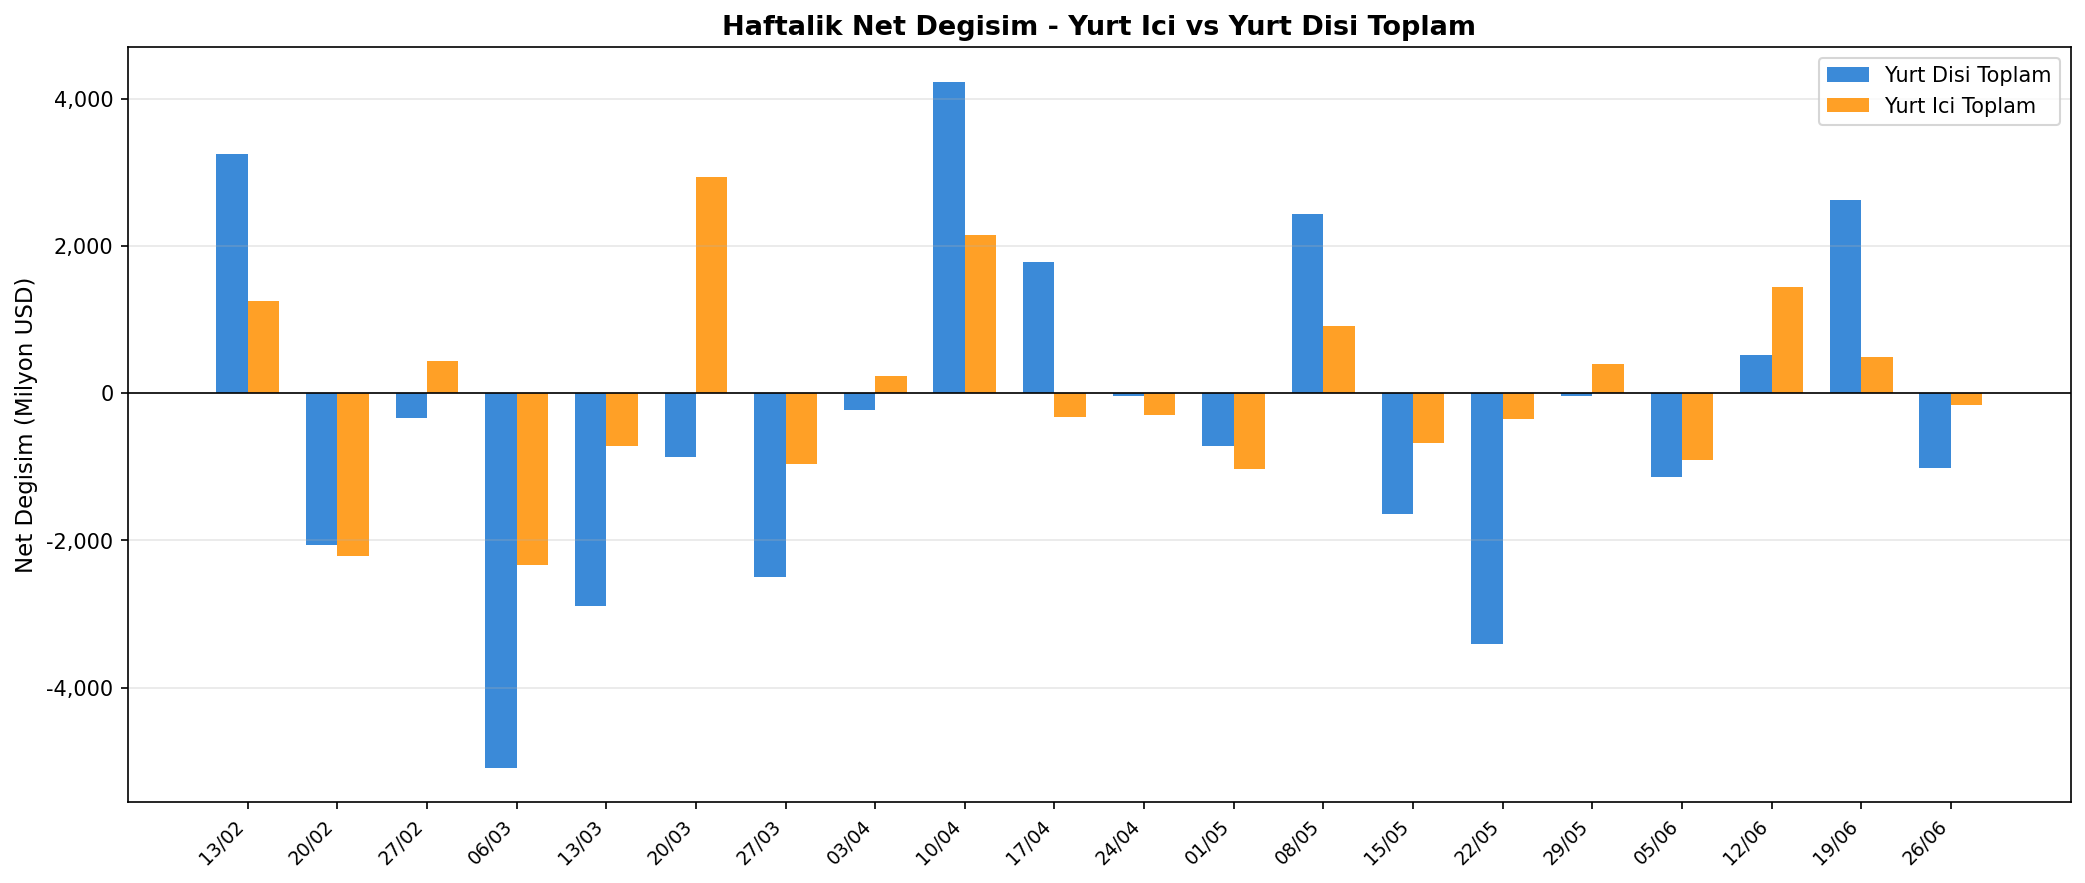
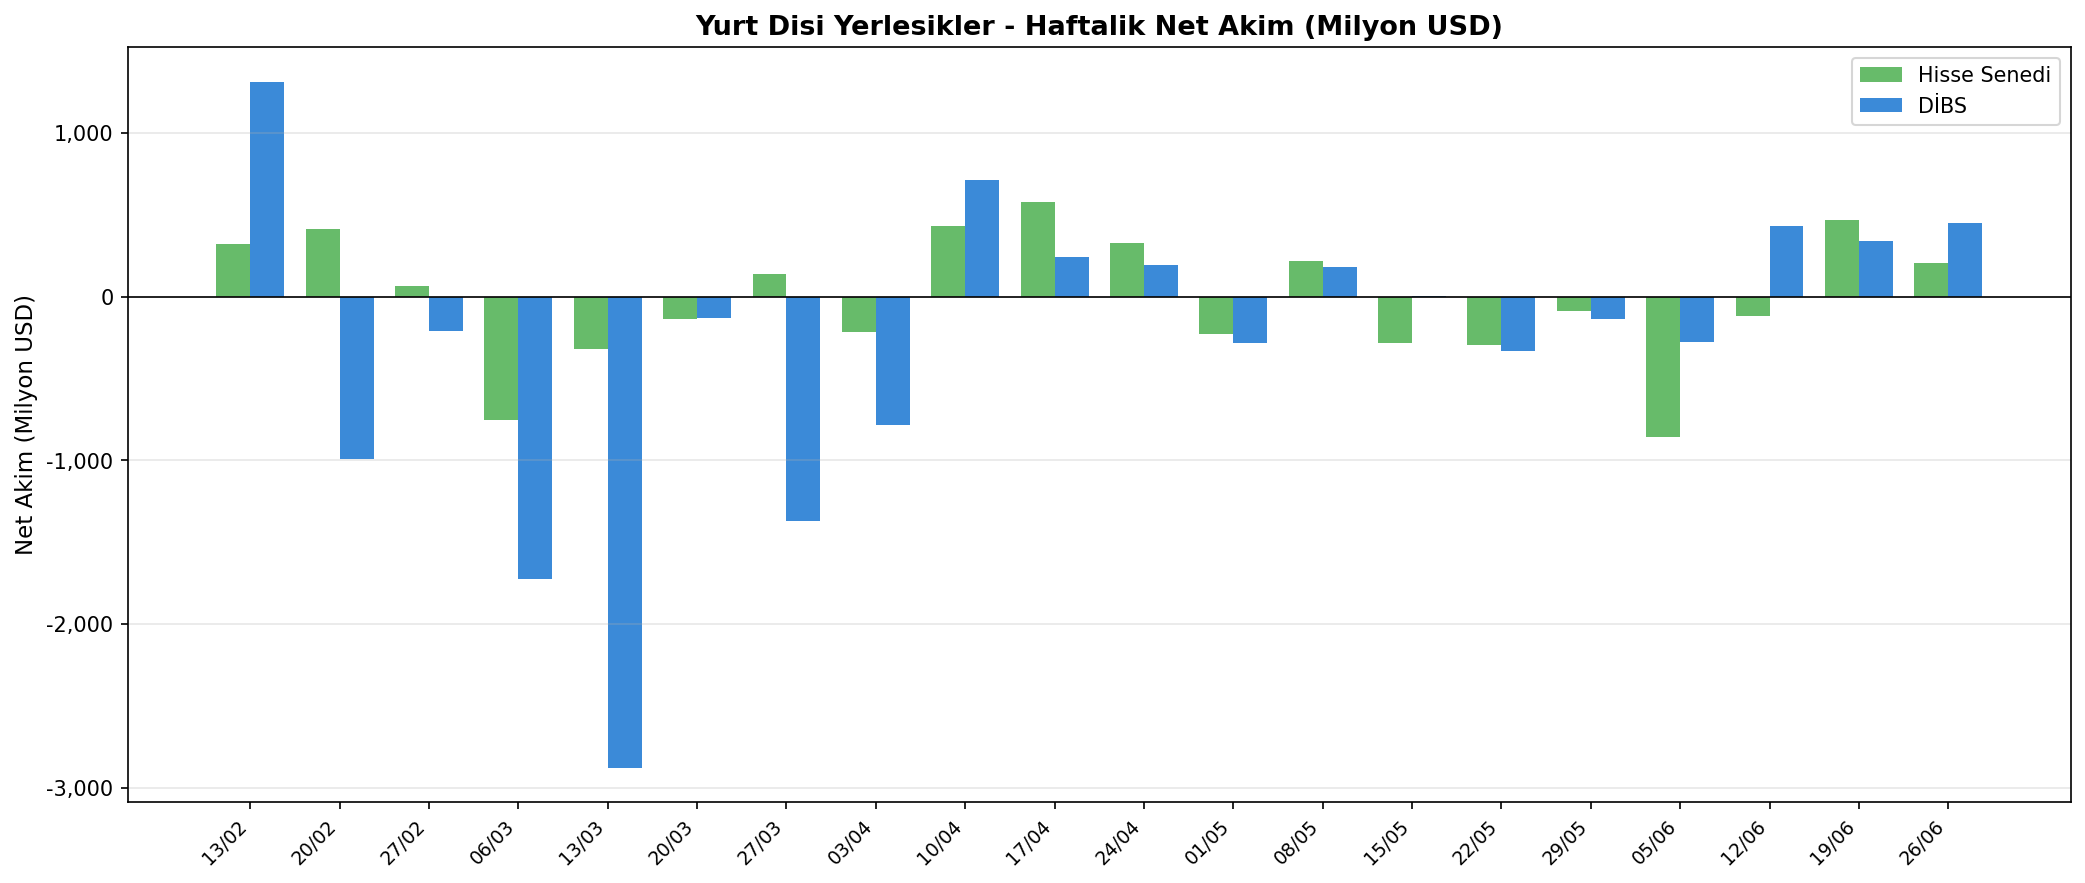
TCMB Stok yeniden yorumlandı: yurt dışı yerleşik stok (M1+M2) + haftalık net akım (M7+M8)
Tüm seriler yurt dışı yerleşiklerin Türkiye Hisse+DİBS yatırımı.
M1/M2=Stok (57.002 mn USD portföy), M7/M8=haftalık net akım (+652 mn USD).

diff --git a/dashboard.py b/dashboard.py
@@ -831,20 +831,26 @@ if selected == "ana_sayfa":
         except Exception:
             pass
         try:
-            import glob as _g
-            csvs = sorted(_g.glob(str(BASE_DIR / "tcmb haftalık stok" / "output" / "raw_Yurt_*.csv")))
-            tot, prev, ld = 0.0, 0.0, None
-            for cc in csvs:
-                d = pd.read_csv(cc)
-                if len(d):
-                    tot += float(d.iloc[-1]["value"]); ld = ld or d.iloc[-1]["date"]
-                    if len(d) >= 2:
-                        prev += float(d.iloc[-2]["value"])
-            if csvs:
-                _chg = (tot - prev) / 1000
-                out.append(("📊 TCMB Haftalık Stok",
-                    f"{ld} itibarıyla yabancı yerleşiklerin menkul kıymet stoku toplam <b>{_ht(tot/1000)} milyar USD</b> "
-                    f"— haftalık değişim <b>{_ht(_chg, 1, sign=True)} milyar USD</b>."))
+            _td = BASE_DIR / "tcmb haftalık stok" / "output"
+
+            def _lv(n):
+                fp = _td / f"raw_{n}.csv"
+                if not fp.exists():
+                    return None, None
+                d = pd.read_csv(fp)
+                return (float(d.iloc[-1]["value"]), d.iloc[-1]["date"]) if len(d) else (None, None)
+
+            _hs, _ld = _lv("Hisse_Stok")
+            _ds, _ = _lv("DIBS_Stok")
+            _hd, _ = _lv("Hisse_Degisim")
+            _dd, _ = _lv("DIBS_Degisim")
+            if _hs is not None or _ds is not None:
+                _stok = (_hs or 0) + (_ds or 0)
+                _akim = (_hd or 0) + (_dd or 0)
+                out.append(("📊 Yabancı Menkul Kıymet Yatırımı",
+                    f"{_ld} itibarıyla yurt dışı yerleşiklerin Türkiye menkul kıymet stoku "
+                    f"<b>{_ht(_stok/1000)} milyar USD</b> (Hisse {_ht(_hs/1000)}, DİBS {_ht(_ds/1000)} milyar) "
+                    f"— bu hafta net akım <b>{_ht(_akim, 0, sign=True)} milyon USD</b>."))
         except Exception:
             pass
         return out
@@ -894,77 +900,59 @@ elif selected == "tcmb_stok":
                 st.cache_data.clear()
 
     # ── Otomatik Özet Bilgisi ──
+    # Tüm veriler YURT DIŞI yerleşiklerin Türkiye menkul kıymet yatırımıdır.
+    # raw_Hisse_Stok / raw_DIBS_Stok = STOK (portföy düzeyi),
+    # raw_Hisse_Degisim / raw_DIBS_Degisim = haftalık net akım.
     @st.cache_data
     def build_tcmb_stok_summary(out_dir, cache_key):
-        """CSV verilerinden özet istatistik oluştur.
-        cache_key: CSV dosyalarının en son değişiklik zamanı (cache invalidation için)."""
-        import glob
-        # Güncel veri "raw_Yurt_*.csv" dosyalarında (tcmb_data.py bunları yazar).
-        # Eski "Yurt_*.csv" şeması artık güncellenmiyor; o yüzden raw_ okunur.
-        csvs = sorted(glob.glob(str(Path(out_dir) / "raw_Yurt_*.csv")))
-        if not csvs:
+        def _last(name):
+            fp = Path(out_dir) / f"raw_{name}.csv"
+            if not fp.exists():
+                return None, None
+            d = pd.read_csv(fp)
+            if d.empty:
+                return None, None
+            return float(d.iloc[-1]["value"]), d.iloc[-1]["date"]
+
+        hisse_stok, dt1 = _last("Hisse_Stok")
+        dibs_stok, dt2 = _last("DIBS_Stok")
+        hisse_deg, _ = _last("Hisse_Degisim")
+        dibs_deg, _ = _last("DIBS_Degisim")
+        if hisse_stok is None and dibs_stok is None:
             return None
-        summary_parts = []
-        last_date = None
-        yd_total = yi_total = 0.0
-        yd_chg = yi_chg = 0.0
-        for csv_path in csvs:
-            df = pd.read_csv(csv_path)
-            if df.empty:
-                continue
-            fname = Path(csv_path).stem
-            last_val = df.iloc[-1]["value"]
-            if last_date is None:
-                last_date = df.iloc[-1]["date"]
-            is_yd = "Yurt_Disi" in fname
-            if is_yd:
-                yd_total += last_val
-            else:
-                yi_total += last_val
-            # Haftalık değişim (seviye farkı)
-            if len(df) >= 2:
-                change = last_val - df.iloc[-2]["value"]
-                if is_yd:
-                    yd_chg += change
-                else:
-                    yi_chg += change
-                clean_name = (fname.replace("raw_", "")
-                              .replace("Yurt_Disi", "Yurt Dışı")
-                              .replace("Yurt_Ici", "Yurt İçi")
-                              .replace("_", " - "))
-                summary_parts.append(f"{clean_name}: {last_val:,.0f} Milyon USD (haftalık {change:+,.0f})")
-        genel = yd_total + yi_total
-        genel_chg = yd_chg + yi_chg
+        hisse_stok = hisse_stok or 0.0
+        dibs_stok = dibs_stok or 0.0
+        hisse_deg = hisse_deg or 0.0
+        dibs_deg = dibs_deg or 0.0
+        stok = hisse_stok + dibs_stok
+        akim = hisse_deg + dibs_deg
+        last_date = dt1 or dt2
+        yon = "giriş" if akim >= 0 else "çıkış"
+        header = (f"Yurt dışı yerleşiklerin Türkiye menkul kıymet stoku {last_date} itibarıyla toplam "
+                  f"**{stok:,.0f} milyon USD** (Hisse {hisse_stok:,.0f}, DİBS {dibs_stok:,.0f} milyon USD). "
+                  f"Bu hafta net **{akim:+,.0f} milyon USD {yon}** "
+                  f"(Hisse {hisse_deg:+,.0f}, DİBS {dibs_deg:+,.0f} milyon USD).")
+        return {"header": header, "last_date": last_date, "stok": stok,
+                "hisse_stok": hisse_stok, "dibs_stok": dibs_stok,
+                "akim": akim, "hisse_deg": hisse_deg, "dibs_deg": dibs_deg}
 
-        header = (f"TCMB haftalık menkul kıymet stoku {last_date} itibarıyla toplam "
-                  f"{genel:,.0f} milyon USD (haftalık değişim {genel_chg:+,.0f} milyon USD). "
-                  f"Yurt içi: {yi_total:,.0f}, Yurt dışı: {yd_total:,.0f} milyon USD.")
-        return {"header": header, "details": summary_parts, "last_date": last_date,
-                "yd_total": yd_total, "yi_total": yi_total, "genel": genel,
-                "genel_chg": genel_chg, "yi_chg": yi_chg, "yd_chg": yd_chg}
-
-    # Cache key: güncel raw_ CSV dosyalarının en son değişiklik zamanı.
-    # (Eski "Yurt_*.csv" kullanılırsa mtime hiç değişmez ve özet hep eski kalır.)
-    csv_paths = list(output_dir.glob("raw_Yurt_*.csv"))
+    csv_paths = list(output_dir.glob("raw_*.csv"))
     _cache_key = max((p.stat().st_mtime for p in csv_paths), default=0)
     stok_ozet = build_tcmb_stok_summary(str(output_dir), _cache_key)
     if stok_ozet:
         st.info(f"📋 **Özet:** {stok_ozet['header']}")
+        st.caption("Tüm veriler **yurt dışı yerleşiklerin** Türkiye hisse senedi ve DİBS yatırımıdır (Kaynak: TCMB EVDS).")
         cm1, cm2, cm3 = st.columns(3)
         with cm1:
-            st.metric("Genel Toplam (Milyon USD)", f"{stok_ozet['genel']:,.0f}",
-                      f"{stok_ozet['genel_chg']:+,.0f}")
+            st.metric("Toplam Stok (Milyon USD)", f"{stok_ozet['stok']:,.0f}",
+                      f"{stok_ozet['akim']:+,.0f}")
         with cm2:
-            st.metric("Yurt İçi (Milyon USD)", f"{stok_ozet['yi_total']:,.0f}",
-                      f"{stok_ozet['yi_chg']:+,.0f}")
+            st.metric("Hisse Senedi Stok", f"{stok_ozet['hisse_stok']:,.0f}",
+                      f"{stok_ozet['hisse_deg']:+,.0f}")
         with cm3:
-            st.metric("Yurt Dışı (Milyon USD)", f"{stok_ozet['yd_total']:,.0f}",
-                      f"{stok_ozet['yd_chg']:+,.0f}")
-        st.caption("Δ = son haftaya göre değişim (Milyon USD)")
-
-        with st.expander("📊 Kalem Bazlı Haftalık Değişimler", expanded=False):
-            for d in stok_ozet["details"]:
-                st.markdown(f"- {d}")
+            st.metric("DİBS Stok", f"{stok_ozet['dibs_stok']:,.0f}",
+                      f"{stok_ozet['dibs_deg']:+,.0f}")
+        st.caption("Δ = bu haftaki net akım (Milyon USD)")
 
     # Sekmeler
     tab1, tab2, tab3, tab4 = st.tabs([
@@ -976,49 +964,25 @@ elif selected == "tcmb_stok":
 
     # Tab 1: Son hafta tablosu
     with tab1:
-        st.subheader("Son 5 Hafta Düzey / Seviye — EVDS (Milyon USD)")
-        show_image_with_download(str(tablo_path), "Son 5 Hafta Düzey Tablosu")
+        st.subheader("Son 5 Hafta — Stok ve Haftalık Net Akım (Milyon USD)")
+        show_image_with_download(str(tablo_path), "Son 5 Hafta Tablosu")
 
     # Tab 2: Histogram
     with tab2:
-        st.subheader("Haftalık Net Değişim - Yurt İçi vs Yurt Dışı")
+        st.subheader("Haftalık Net Akım — Hisse & DİBS (Milyon USD)")
         hist_path = output_dir / "histogram_haftalik.png"
-        show_image_with_download(str(hist_path), "Haftalık Net Değişim Histogramı")
+        show_image_with_download(str(hist_path), "Haftalık Net Akım Histogramı")
 
-    # Tab 3: Kümülatif grafikler
+    # Tab 3: Kümülatif grafikler (yalnızca stok serileri)
     with tab3:
-        st.subheader("Yıl Başından Kümülatif Değişim")
-
-        group_choice = st.radio(
-            "Grup Seçin",
-            ["Yurt İçi", "Yurt Dışı"],
-            horizontal=True,
-            key="cum_group",
-        )
-
-        if group_choice == "Yurt İçi":
-            series_map = {
-                "Hisse Senedi": "kumulatif_Yurt_Ici_Hisse.png",
-                "DİBS (Kesin Alım)": "kumulatif_Yurt_Ici_DIBS.png",
-                "Genel Yönetim İhraçları": "kumulatif_Yurt_Ici_GenYon.png",
-                "Banka İhraçları": "kumulatif_Yurt_Ici_Banka.png",
-            }
-        else:
-            series_map = {
-                "Hisse Senedi": "kumulatif_Yurt_Disi_Hisse.png",
-                "DİBS (Kesin Alım)": "kumulatif_Yurt_Disi_DIBS.png",
-                "Genel Yönetim İhraçları": "kumulatif_Yurt_Disi_GenYon.png",
-                "Banka İhraçları": "kumulatif_Yurt_Disi_Banka.png",
-            }
-
-        selected_series = st.selectbox(
-            "Seri Seçin", list(series_map.keys()), key="cum_series"
-        )
+        st.subheader("Yıl Başından Kümülatif Stok Değişimi")
+        series_map = {
+            "Hisse Senedi Stok": "kumulatif_Hisse_Stok.png",
+            "DİBS Stok": "kumulatif_DIBS_Stok.png",
+        }
+        selected_series = st.selectbox("Seri Seçin", list(series_map.keys()), key="cum_series")
         img_file = output_dir / series_map[selected_series]
-        show_image_with_download(
-            str(img_file),
-            f"{group_choice} - {selected_series} Kümülatif Değişim",
-        )
+        show_image_with_download(str(img_file), f"{selected_series} — Yıl Başından Kümülatif Değişim")
 
     # Tab 4: Ham Veriler
     with tab4:

diff --git a/tcmb haftalık stok/tcmb_data.py b/tcmb haftalık stok/tcmb_data.py
@@ -28,12 +28,12 @@ OUTPUT_DIR = Path(__file__).parent / "output"
 OUTPUT_DIR.mkdir(exist_ok=True)
 
 SERIES = {
-    # Yurt Ici Yerlesikler — yalnizca Hisse Senedi + DIBS (Kesin Alim)
-    "TP.MKNETHAR.M7":  "Yurt Ici Hisse",
-    "TP.MKNETHAR.M8":  "Yurt Ici DIBS",
-    # Yurt Disi Yerlesikler — yalnizca Hisse Senedi + DIBS (Kesin Alim)
-    "TP.MKNETHAR.M1":  "Yurt Disi Hisse",
-    "TP.MKNETHAR.M2":  "Yurt Disi DIBS",
+    # HEPSI YURT DISI YERLESIKLER'in Turkiye menkul kiymet yatirimidir.
+    # M1/M2 = STOK (Duzey/portfoy seviyesi), M7/M8 = HAFTALIK NET DEGISIM (akim).
+    "TP.MKNETHAR.M1":  "Hisse Stok",
+    "TP.MKNETHAR.M2":  "DIBS Stok",
+    "TP.MKNETHAR.M7":  "Hisse Degisim",
+    "TP.MKNETHAR.M8":  "DIBS Degisim",
 }
 
 plt.rcParams["font.family"] = "sans-serif"
@@ -149,7 +149,7 @@ def make_recent_table(all_data: dict[str, pd.DataFrame], n_weeks: int = 5):
     for i in range(len(tbl.index)):
         table[i + 1, -1].set_text_props(fontweight="bold")
 
-    ax.set_title(f"Son {n_weeks} Hafta Duzey / Seviye - EVDS (Milyon USD)", fontsize=13, fontweight="bold", pad=20)
+    ax.set_title(f"Yurt Disi Yerlesikler - Son {n_weeks} Hafta Stok ve Haftalik Net Akim (Milyon USD)", fontsize=12, fontweight="bold", pad=20)
     plt.tight_layout()
     plt.savefig(OUTPUT_DIR / "tablo_son_haftalar.png", dpi=150, bbox_inches="tight")
     plt.close()
@@ -159,48 +159,35 @@ def make_recent_table(all_data: dict[str, pd.DataFrame], n_weeks: int = 5):
 # ── 2) Haftalik Net Degisim Histogrami ──────────────────────
 
 def make_histogram(all_data: dict[str, pd.DataFrame], n_weeks: int = 20):
-    """Son n hafta haftalik net degisim bar chart."""
-
-    # Son n haftayi al - en son tarihi referans al
-    ref_dates = []
-    for code, df in all_data.items():
-        ref_dates.extend(df["date"].tail(n_weeks).tolist())
-    if not ref_dates:
-        return
-
-    # Tum serilerin son n haftasini birlestir
+    """Son n hafta haftalik NET AKIM (yurt disi yerlesiklerin Hisse & DIBS'e girisi).
+    M7/M8 serilerinin 'value' degeri zaten haftalik net akimdir."""
+    akim = {"TP.MKNETHAR.M7": "Hisse", "TP.MKNETHAR.M8": "DİBS"}
     frames = []
-    for code, df in all_data.items():
-        recent = df.tail(n_weeks).copy()
-        recent["series"] = SERIES[code]
-        frames.append(recent)
-
+    for code, lbl in akim.items():
+        if code in all_data:
+            r = all_data[code].tail(n_weeks).copy()
+            r["enstruman"] = lbl
+            frames.append(r[["date", "value", "enstruman"]])
+    if not frames:
+        return
     combined = pd.concat(frames, ignore_index=True)
-
-    # Yurt Ici ve Yurt Disi toplam
-    combined["group"] = combined["series"].apply(lambda x: "Yurt Ici" if "Ici" in x else "Yurt Disi")
-    pivot = combined.groupby(["date", "group"])["change"].sum().unstack(fill_value=0)
+    pivot = combined.pivot_table(index="date", columns="enstruman", values="value", fill_value=0).sort_index()
 
     fig, ax = plt.subplots(figsize=(14, 6))
-    dates = pivot.index
-    x = range(len(dates))
-    width = 0.35
-
-    if "Yurt Disi" in pivot.columns:
-        bars1 = ax.bar([i - width/2 for i in x], pivot["Yurt Disi"], width,
-                       label="Yurt Disi Toplam", color="#1976D2", alpha=0.85)
-    if "Yurt Ici" in pivot.columns:
-        bars2 = ax.bar([i + width/2 for i in x], pivot["Yurt Ici"], width,
-                       label="Yurt Ici Toplam", color="#FF8F00", alpha=0.85)
-
+    x = range(len(pivot.index))
+    width = 0.38
+    if "Hisse" in pivot.columns:
+        ax.bar([i - width / 2 for i in x], pivot["Hisse"], width, label="Hisse Senedi", color="#4CAF50", alpha=0.85)
+    if "DİBS" in pivot.columns:
+        ax.bar([i + width / 2 for i in x], pivot["DİBS"], width, label="DİBS", color="#1976D2", alpha=0.85)
     ax.axhline(y=0, color="black", linewidth=0.8)
     ax.set_xticks(list(x))
-    ax.set_xticklabels([d.strftime("%d/%m") for d in dates], rotation=45, ha="right", fontsize=9)
-    ax.set_ylabel("Net Degisim (Milyon USD)", fontsize=11)
-    ax.set_title("Haftalik Net Degisim - Yurt Ici vs Yurt Disi Toplam", fontsize=13, fontweight="bold")
+    ax.set_xticklabels([d.strftime("%d/%m") for d in pivot.index], rotation=45, ha="right", fontsize=9)
+    ax.set_ylabel("Net Akim (Milyon USD)", fontsize=11)
+    ax.set_title("Yurt Disi Yerlesikler - Haftalik Net Akim (Milyon USD)", fontsize=13, fontweight="bold")
     ax.legend(fontsize=10)
     ax.grid(axis="y", alpha=0.3)
-    ax.yaxis.set_major_formatter(mticker.FuncFormatter(lambda x, _: f"{x:,.0f}"))
+    ax.yaxis.set_major_formatter(mticker.FuncFormatter(lambda v, _: f"{v:,.0f}"))
     plt.tight_layout()
     plt.savefig(OUTPUT_DIR / "histogram_haftalik.png", dpi=150, bbox_inches="tight")
     plt.close()
@@ -211,13 +198,12 @@ def make_histogram(all_data: dict[str, pd.DataFrame], n_weeks: int = 20):
 
 def make_cumulative_ts(all_data: dict[str, pd.DataFrame]):
     """
-    Her seri icin: yil basinda 0'dan baslayan kumulatif degisim.
-    2024, 2025, 2026 ayri cizgiler + diger yillar ortalama.
-    Yurt Ici ve Yurt Disi ayri ayri 2 grafik.
+    Yalnizca STOK serileri (Hisse Stok, DIBS Stok) icin: yil basindan
+    kumulatif seviye degisimi. 2024/2025/2026 + diger yillar ort.
+    (Degisim/akim serileri M7/M8 zaten haftalik akim oldugu icin kumulatif alinmaz.)
     """
     groups = {
-        "Yurt Disi": ["TP.MKNETHAR.M1", "TP.MKNETHAR.M2"],
-        "Yurt Ici":  ["TP.MKNETHAR.M7", "TP.MKNETHAR.M8"],
+        "Stok": ["TP.MKNETHAR.M1", "TP.MKNETHAR.M2"],
     }
 
     for group_name, codes in groups.items():